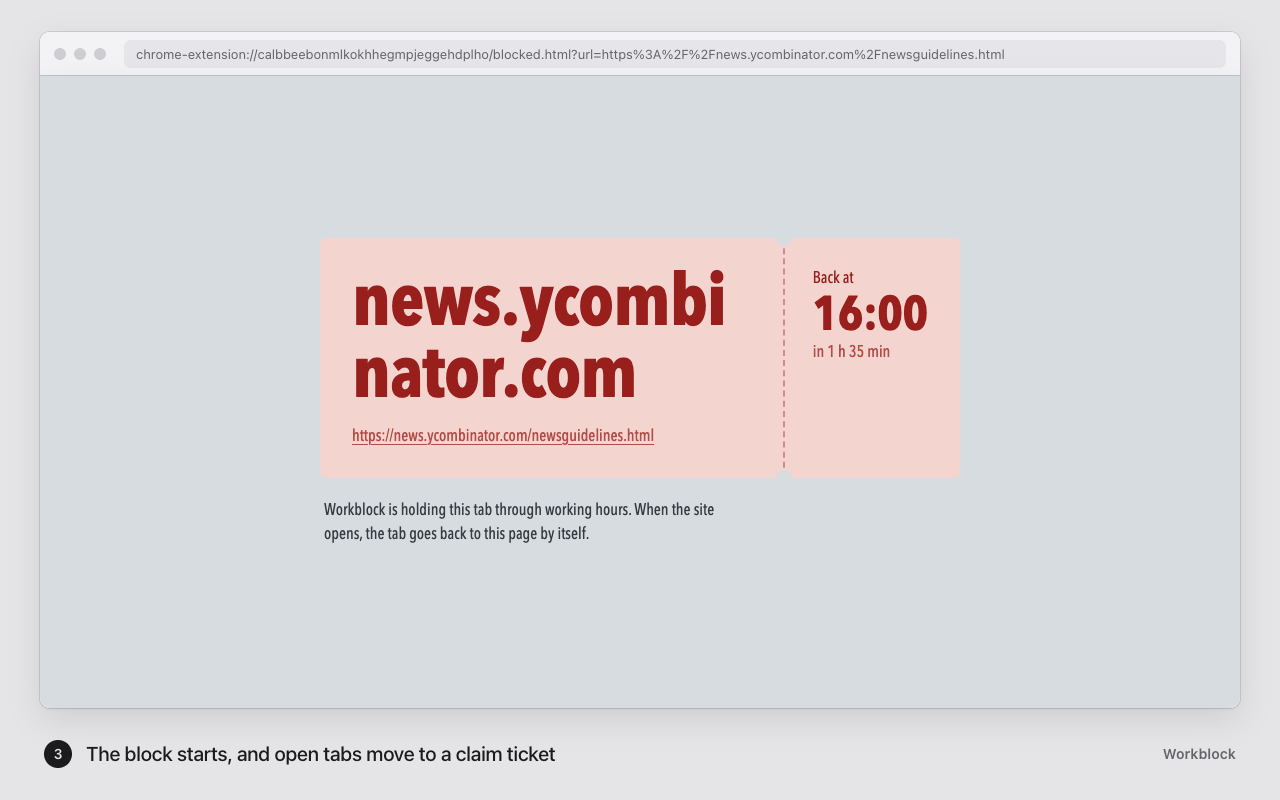
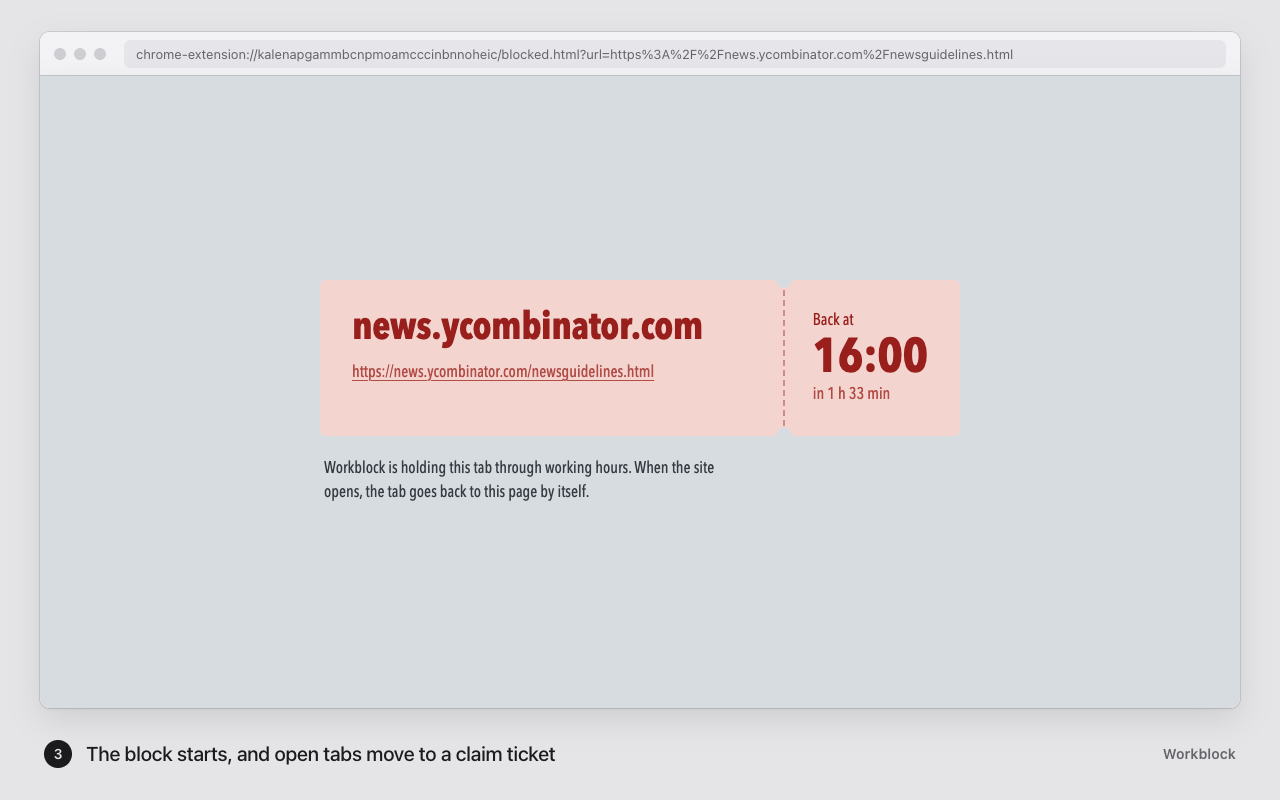
fix: long hostnames on the blocked page broke mid-word
The heading now shrinks to fit the host on one line. Re-recorded the demo.

Changed region(s): [[0.25, 0.2812, 0.75, 0.5], [0.25, 0.5312, 0.75, 0.6875], [0.1875, 0.0625, 0.7812, 0.0938]]

diff --git a/blocked.html b/blocked.html
@@ -44,7 +44,7 @@
 				color: var(--ink);
 				border-radius: 6px;
 			}
-			.claim { padding: 28px 32px 30px; min-width: 0; }
+			.claim { padding: 28px 32px 30px; min-width: 0; container-type: inline-size; }
 			.stub {
 				position: relative;
 				padding: 28px 32px 30px 28px;
@@ -67,7 +67,8 @@
 
 			h1 {
 				margin: 0;
-				font-size: clamp(48px, 9vw, 72px);
+				/* Shrinks a long host to fit one line instead of breaking it mid-word. */
+				font-size: clamp(32px, calc(100cqi / (var(--chars, 10) * 0.52)), 72px);
 				font-weight: 700;
 				line-height: 1;
 				letter-spacing: -0.01em;

diff --git a/blocked.js b/blocked.js
@@ -5,7 +5,9 @@ const url = returnUrl(location.search);
 
 if (url) {
 	document.title = url;
-	$("host").textContent = new URL(url).hostname.replace(/^www\./, "");
+	const host = new URL(url).hostname.replace(/^www\./, "");
+	$("host").textContent = host;
+	$("host").style.setProperty("--chars", host.length);
 	$("url").href = url;
 	$("url").textContent = url;
 } else {

diff --git a/README.md b/README.md
@@ -170,8 +170,10 @@ throwaway profile and remote debugging on port 9333, then blocks and unblocks
 tab waits until you view it, and that new visits land on the blocked page.
 
 After you change `options.html` or the blocked page, run `npm run demo` and
-commit the new GIFs. The script needs `ffmpeg` and network access, because the
-demo loads the Hacker News guidelines page.
+commit the new GIFs and screenshots. The script needs `ffmpeg`, ImageMagick,
+and network access, because the demo loads the Hacker News guidelines page.
+`docs/screenshots/` holds the light frames at 1280x800, the size the Chrome
+Web Store asks for.
 
 CI runs `npm test` and `npm run e2e` on every push to `main` and every pull
 request. The e2e job uses the current stable Chrome for Testing, because
